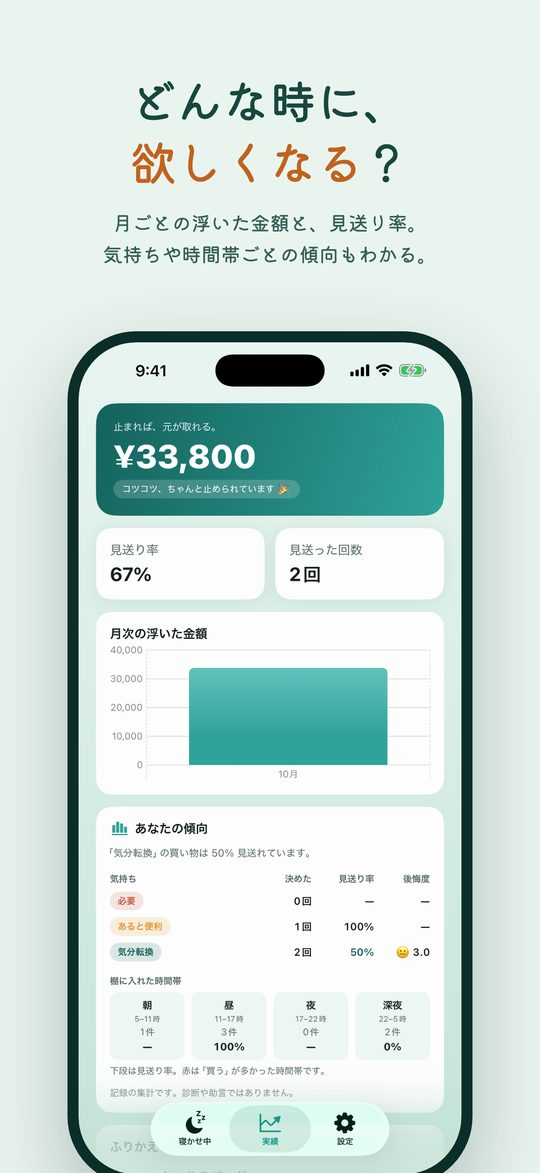
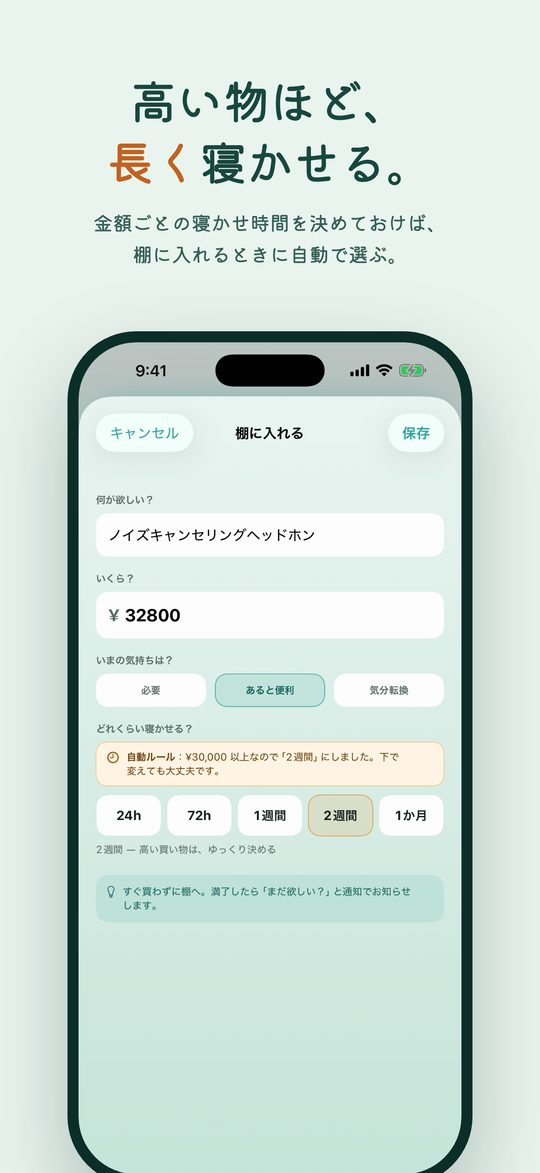
lp: 買い物ブレーキ 1.4.0 の機能追加を反映（ご褒美の目標・金額で寝かせ時間を自動に）

diff --git a/cooldownshelf/index.html b/cooldownshelf/index.html
@@ -4,7 +4,7 @@
 <meta charset="UTF-8">
 <meta name="viewport" content="width=device-width, initial-scale=1.0">
 <title>買い物ブレーキ 衝動買い・浪費対策｜iPhoneアプリ</title>
-<meta name="description" content="欲しい物は、すぐ買わずに「寝かせる」。24時間〜1週間おいてから再判定すると、勢いの衝動買いがすっと減ります。止められた金額が積み上がり、続けるほど「選べる自分」に。サブスクなしの買い切り。">
+<meta name="description" content="欲しい物は、すぐ買わずに「寝かせる」。24時間〜1か月おいてから再判定すると、勢いの衝動買いがすっと減ります。止められた金額は「ご褒美の目標」に貯まり、続けるほど「選べる自分」に。サブスクなしの買い切り。">
 <link rel="canonical" href="https://madeinchimpanzee.github.io/app-legal/cooldownshelf/">
 <link rel="icon" href="img/icon.png">
 <link rel="apple-touch-icon" href="img/icon.png">
@@ -12,13 +12,13 @@
 <script defer src="https://static.cloudflareinsights.com/beacon.min.js" data-cf-beacon='{"token": "19cc6d39518c47219628c5f1152f72c9"}'></script>
 <meta property="og:type" content="website">
 <meta property="og:title" content="買い物ブレーキ 衝動買い・浪費対策｜iPhoneアプリ">
-<meta property="og:description" content="欲しい物は、すぐ買わずに「寝かせる」。24時間〜1週間おいてから再判定すると、勢いの衝動買いがすっと減ります。止められた金額が積み上がり、続けるほど「選べる自分」に。サブスクなしの買い切り。">
+<meta property="og:description" content="欲しい物は、すぐ買わずに「寝かせる」。24時間〜1か月おいてから再判定すると、勢いの衝動買いがすっと減ります。止められた金額は「ご褒美の目標」に貯まり、続けるほど「選べる自分」に。サブスクなしの買い切り。">
 <meta property="og:url" content="https://madeinchimpanzee.github.io/app-legal/cooldownshelf/">
 <meta property="og:image" content="https://madeinchimpanzee.github.io/app-legal/cooldownshelf/img/og.jpg">
 <meta property="og:locale" content="ja_JP">
 <meta name="twitter:card" content="summary_large_image">
 <meta name="apple-itunes-app" content="app-id=6782241234">
-<script type="application/ld+json">{"@context": "https://schema.org", "@type": "SoftwareApplication", "name": "買い物ブレーキ 衝動買い・浪費対策", "operatingSystem": "iOS", "applicationCategory": "MobileApplication", "description": "欲しい物は、すぐ買わずに「寝かせる」。24時間〜1週間おいてから再判定すると、勢いの衝動買いがすっと減ります。止められた金額が積み上がり、続けるほど「選べる自分」に。サブスクなしの買い切り。", "image": "https://madeinchimpanzee.github.io/app-legal/cooldownshelf/img/icon.png", "url": "https://madeinchimpanzee.github.io/app-legal/cooldownshelf/", "installUrl": "https://apps.apple.com/jp/app/id6782241234?ct=lp", "offers": {"@type": "Offer", "price": "0", "priceCurrency": "JPY"}, "author": {"@type": "Organization", "name": "MadeInChimpanzee"}}</script>
+<script type="application/ld+json">{"@context": "https://schema.org", "@type": "SoftwareApplication", "name": "買い物ブレーキ 衝動買い・浪費対策", "operatingSystem": "iOS", "applicationCategory": "MobileApplication", "description": "欲しい物は、すぐ買わずに「寝かせる」。24時間〜1か月おいてから再判定すると、勢いの衝動買いがすっと減ります。止められた金額は「ご褒美の目標」に貯まり、続けるほど「選べる自分」に。サブスクなしの買い切り。", "image": "https://madeinchimpanzee.github.io/app-legal/cooldownshelf/img/icon.png", "url": "https://madeinchimpanzee.github.io/app-legal/cooldownshelf/", "installUrl": "https://apps.apple.com/jp/app/id6782241234?ct=lp", "offers": {"@type": "Offer", "price": "0", "priceCurrency": "JPY"}, "author": {"@type": "Organization", "name": "MadeInChimpanzee"}}</script>
 <script type="application/ld+json">{"@context": "https://schema.org", "@type": "FAQPage", "mainEntity": [{"@type": "Question", "name": "料金はかかりますか？", "acceptedAnswer": {"@type": "Answer", "text": "無料でダウンロード。追加機能は買い切り（¥600）で解放できます。"}}, {"@type": "Question", "name": "入力したデータはどこに保存されますか？", "acceptedAnswer": {"@type": "Answer", "text": "お使いの iPhone の中にのみ保存されます。アカウント登録もログインも不要です。"}}, {"@type": "Question", "name": "対応機種は？", "acceptedAnswer": {"@type": "Answer", "text": "iPhone（App Store から入手）。"}}, {"@type": "Question", "name": "問い合わせ先は？", "acceptedAnswer": {"@type": "Answer", "text": "メール suportapps44@gmail.com までご連絡ください。"}}]}</script>
 <style>
 :root{--accent:#ED3D31;--accent-dark:#B82F26;--accent-tint:#FCE7E6;--ink:#1F2430;--muted:#5F6673;--line:#E6E8EC;--bg:#FFFFFF}
@@ -94,7 +94,7 @@ footer .notice{font-size:11.5px;margin-top:10px}
     <img class="icon" src="img/icon.png" alt="買い物ブレーキ のアイコン" width="96" height="96">
     <h1>買い物ブレーキ 衝動買い・浪費対策</h1>
     <p class="sub">買う前に一拍、無駄遣いと後悔を減らす</p>
-    <p class="lead">欲しい物は、すぐ買わずに「寝かせる」。24時間〜1週間おいてから再判定すると、勢いの衝動買いがすっと減ります。止められた金額が積み上がり、続けるほど「選べる自分」に。サブスクなしの買い切り。</p>
+    <p class="lead">欲しい物は、すぐ買わずに「寝かせる」。24時間〜1か月おいてから再判定すると、勢いの衝動買いがすっと減ります。止められた金額は「ご褒美の目標」に貯まり、続けるほど「選べる自分」に。サブスクなしの買い切り。</p>
     <a class="btn" href="https://apps.apple.com/jp/app/id6782241234?ct=lp" rel="noopener"><svg viewBox="0 0 24 24" aria-hidden="true"><path d="M16.7 12.6c0-2.6 2.1-3.8 2.2-3.9-1.2-1.8-3.1-2-3.7-2-1.6-.2-3.1.9-3.9.9-.8 0-2-.9-3.3-.9-1.7 0-3.3 1-4.2 2.5-1.8 3.1-.5 7.8 1.3 10.3.9 1.2 1.9 2.6 3.2 2.6 1.3-.1 1.8-.8 3.3-.8s2 .8 3.3.8c1.4 0 2.3-1.3 3.1-2.5 1-1.4 1.4-2.8 1.4-2.9-.1 0-2.7-1-2.7-4.1zM14.2 5c.7-.8 1.1-2 1-3.1-1 0-2.2.7-2.9 1.5-.6.7-1.2 1.9-1 3 1.1.1 2.2-.5 2.9-1.4z"/></svg>App Store からダウンロード</a>
     <p class="price">無料でダウンロード。追加機能は買い切り（¥600）で解放できます。</p>
   </div>
@@ -104,6 +104,8 @@ footer .notice{font-size:11.5px;margin-top:10px}
 <section><div class="wrap">
   <h2>できること</h2>
   <div class="cards">
+<div class="card"><h3>「ご褒美の目標」</h3><p>本当に欲しい物を目標に決めると、止められた金額がそこへ貯まっていく。届いたら気持ちよく使える</p></div>
+<div class="card"><h3>「金額で寝かせ時間を自動に」</h3><p>「3万円以上は2週間」のように決めておけば、高い買い物ほど長く寝かせられる</p></div>
 <div class="card"><h3>「あなたの傾向」</h3><p>感情タグ別・棚に入れた時間帯別の見送り率と後悔度で、自分の“危ない買い物パターン”が見える</p></div>
 <div class="card"><h3>「これまでの記録」</h3><p>登録日時・気持ち・寝かせた期間・判定日時・ふりかえりの絵文字とひとことまで、全部を一覧で見返せる（見送り／購入で絞り込み・品名で検索）</p></div>
   </div>
@@ -130,13 +132,15 @@ footer .notice{font-size:11.5px;margin-top:10px}
 <p>買い物ブレーキは、欲しい物をすぐ買わずに“いったん寝かせる”ためのアプリです。即決（買う）でも、我慢の挫折（買わない）でもなく、「とりあえず保留」という第3の選択肢。判断を先送りにするだけで、衝動買いはぐっと減ります。</p>
 <h2>つかいかた（かんたん3ステップ）</h2>
 <p>1. 欲しい物を「寝かせる」… 商品名・金額・気持ち（必要／あると便利／気分転換）を登録</p>
-<p>2. 時間を置いて再判定 … 24h / 72h / 1週間 後に通知で「まだ欲しい？」とお知らせ</p>
+<p>2. 時間を置いて再判定 … 24時間〜1か月 後に通知で「まだ欲しい？」とお知らせ</p>
 <p>（満了より先に気持ちが落ち着いたら、待たずに「もう欲しくない」で見送れます）</p>
 <p>3. 浮いた額が貯まる … 見送るほど「止められた金額」が積み上がる</p>
 <h2>買い物ブレーキの特徴</h2>
 <ul>
 <li>罪悪感ではなく達成感で続く。「我慢させる」より「止められた自分」を可視化</li>
 <li>止められた金額・見送り率を自動で集計</li>
+<li>「ご褒美の目標」：本当に欲しい物を目標に決めると、止められた金額がそこへ貯まっていく。届いたら気持ちよく使える</li>
+<li>「金額で寝かせ時間を自動に」：「3万円以上は2週間」のように決めておけば、高い買い物ほど長く寝かせられる</li>
 <li>気持ちのタグで“なぜ欲しいか”を見える化</li>
 <li>後からふり返れる後悔度ログ（買った／見送ったの満足度）</li>
 <li>「あなたの傾向」：感情タグ別・棚に入れた時間帯別の見送り率と後悔度で、自分の“危ない買い物パターン”が見える</li>
